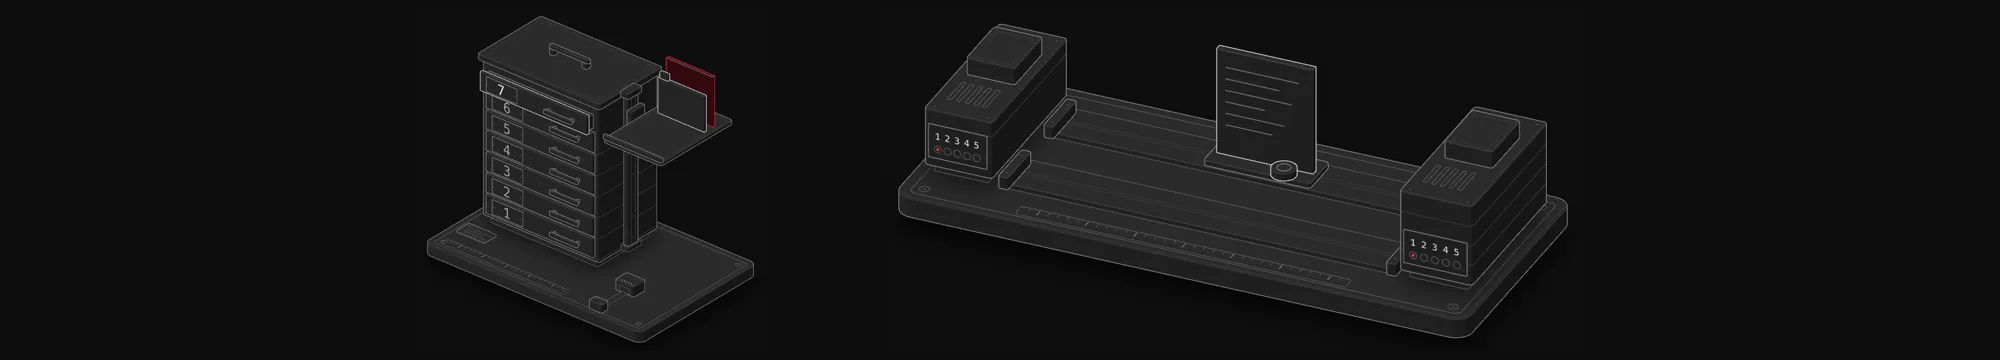
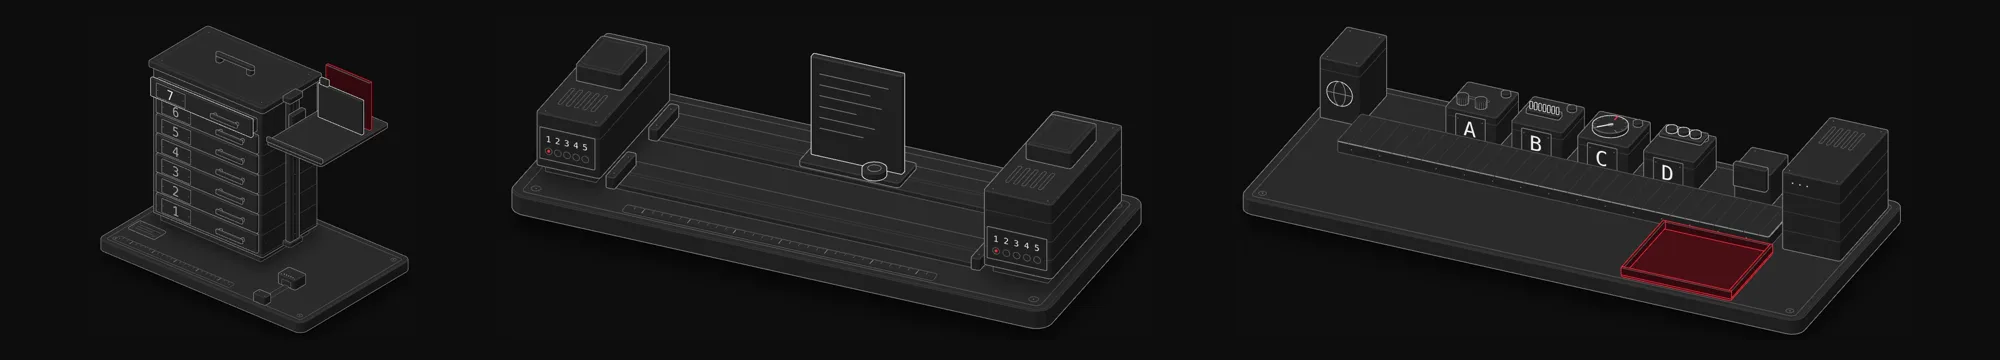
OSS: añade la figura del WAF a Figuras OSI interactivas (#2)
Descripción, etiqueta y enlace nuevos en la tarjeta, y captura
actualizada con las tres figuras (assets/screens/oss-figurasosi.webp).

Changed region(s): [[0.031, 0.0306, 0.961, 0.9472], [0.713, 0.9167, 0.744, 0.9472]]

diff --git a/index.html b/index.html
@@ -470,7 +470,7 @@ var OSS = [
   { name: 'Dentro de Claude', featured: true, wide: true, img: 'assets/screens/oss-dentroclaude.webp', desc: 'Una pregunta real a Claude Code, por dentro: la ventana de contexto de 1 millón de tokens, el modelo como caja sellada, 5 subagentes en paralelo y las herramientas, reproducidos segundo a segundo desde una sesión real anonimizada. 48 llamadas y 8,8 millones de tokens leídos de caché: 6,59 $ en vez de 39,27 $.', color: 'var(--red)', status: 'live', statusLabel: 'Public', tags: ['three.js', 'Agentes IA', 'Claude Code', 'Datos reales', 'Construido con IA'], url: 'github.com/pedri77/dentro-de-claude', links: [{ label: 'GitHub', url: 'https://github.com/pedri77/dentro-de-claude', icon: 'gh' }, { label: 'Demo', url: 'https://pedri77.github.io/dentro-de-claude/' }] },
   { name: 'La diversidad climática', featured: true, wide: true, img: 'assets/screens/oss-diversidadclimatica.webp', desc: 'Tema 2 de Geografía de 2.º de Bachillerato convertido en web de scroll: desciendes desde un satélite hasta la Península, los factores del clima se dibujan sobre el mapa y los climogramas reales de 14 estaciones de AEMET se comentan paso a paso, como en la PAU.', color: 'var(--blue)', status: 'live', statusLabel: 'Public', tags: ['React', 'Scroll narrativo', 'Datos AEMET', 'Educación', 'Construido con IA'], url: 'github.com/pedri77/diversidad-climatica', links: [{ label: 'GitHub', url: 'https://github.com/pedri77/diversidad-climatica', icon: 'gh' }, { label: 'Demo', url: 'https://pedri77.github.io/diversidad-climatica/' }] },
   { name: 'IAcademy: de la niebla al método', featured: true, wide: true, img: 'assets/screens/oss-iacademycinematica.webp', desc: 'Demo de scroll cinematográfico para IAcademy: una biblioteca a oscuras aparece al disipar la niebla, el robot saluda, el método de 7 pasos se dibuja con el scroll y 24 herramientas de IA encajan en su sitio. Capas por parallax compuestas a partir de un solo render con IA.', color: 'var(--red)', status: 'live', statusLabel: 'Public', tags: ['React', 'Lenis', 'Parallax', 'IA generativa'], url: 'github.com/pedri77/iacademy-cinematica', links: [{ label: 'GitHub', url: 'https://github.com/pedri77/iacademy-cinematica', icon: 'gh' }, { label: 'Demo', url: 'https://pedri77.github.io/iacademy-cinematica/' }] },
-  { name: 'Figuras OSI interactivas', featured: true, wide: true, img: 'assets/screens/oss-figurasosi.webp', desc: 'Dos figuras isométricas que se manejan con el ratón o el teclado: un archivador de siete cajones donde cada capa OSI añade su cabecera al paquete, y el handshake de TLS 1.3 (RFC 8446) con lo que viaja en claro, las claves que cada extremo deriva sin enviarlas y los estuches cifrados. Parte de la matriz de vulnerabilidades por capa OSI.', color: 'var(--red)', status: 'live', statusLabel: 'Public', tags: ['SVG', 'Redes', 'TLS 1.3', 'Educación', 'Construido con IA'], url: 'github.com/pedri77/vulnerabilidades-capas-osi', links: [{ label: 'GitHub', url: 'https://github.com/pedri77/vulnerabilidades-capas-osi', icon: 'gh' }, { label: 'Encapsulación', url: 'https://pedri77.github.io/vulnerabilidades-capas-osi/figuras/encapsulacion/' }, { label: 'TLS 1.3', url: 'https://pedri77.github.io/vulnerabilidades-capas-osi/figuras/tls/' }] },
+  { name: 'Figuras OSI interactivas', featured: true, wide: true, img: 'assets/screens/oss-figurasosi.webp', desc: 'Tres figuras isométricas que se manejan con el ratón o el teclado: un archivador de siete cajones donde cada capa OSI añade su cabecera al paquete; el handshake de TLS 1.3 (RFC 8446) con lo que viaja en claro, las claves que cada extremo deriva sin enviarlas y los estuches cifrados; y un WAF como aduana que normaliza, aplica firmas del OWASP CRS, puntúa anomalías y limita la tasa, con SQLi, XSS codificado y un falso positivo. Parte de la matriz de vulnerabilidades por capa OSI.', color: 'var(--red)', status: 'live', statusLabel: 'Public', tags: ['SVG', 'Redes', 'TLS 1.3', 'WAF', 'Educación', 'Construido con IA'], url: 'github.com/pedri77/vulnerabilidades-capas-osi', links: [{ label: 'GitHub', url: 'https://github.com/pedri77/vulnerabilidades-capas-osi', icon: 'gh' }, { label: 'Encapsulación', url: 'https://pedri77.github.io/vulnerabilidades-capas-osi/figuras/encapsulacion/' }, { label: 'TLS 1.3', url: 'https://pedri77.github.io/vulnerabilidades-capas-osi/figuras/tls/' }, { label: 'WAF', url: 'https://pedri77.github.io/vulnerabilidades-capas-osi/figuras/waf/' }] },
   { name: 'EDR Visual App', img: 'assets/screens/oss-edrvisual.webp', desc: 'Visualizador interactivo de Endpoint Detection & Response para demos y formación.', color: 'var(--green)', status: 'live', statusLabel: 'Public', tags: ['React', 'Visualization', 'EDR'], url: 'github.com/pedri77/edr-visual-app', links: [{ label: 'GitHub', url: 'https://github.com/pedri77/edr-visual-app', icon: 'gh' }, { label: 'Demo', url: 'https://pedri77.github.io/edr-visual-app/' }] },
   { name: 'SASE Visual App', img: 'assets/screens/oss-sasevisual.webp', desc: 'Visualizador interactivo de arquitectura SASE para demos y formación.', color: 'var(--cyan)', status: 'live', statusLabel: 'Public', tags: ['React', 'Visualization', 'SASE'], url: 'github.com/pedri77/sase-visual-app', links: [{ label: 'GitHub', url: 'https://github.com/pedri77/sase-visual-app', icon: 'gh' }, { label: 'Demo', url: 'https://pedri77.github.io/sase-visual-app/' }] },
   { name: 'KEV Dashboard', img: 'assets/screens/oss-kevdashboard.webp', desc: 'Dashboard de CISA Known Exploited Vulnerabilities con Streamlit.', color: 'var(--red)', status: 'live', statusLabel: 'Public', tags: ['Python', 'Streamlit', 'CISA KEV'], url: 'github.com/pedri77/kev_dash_project', links: [{ label: 'GitHub', url: 'https://github.com/pedri77/kev_dash_project', icon: 'gh' }] },
